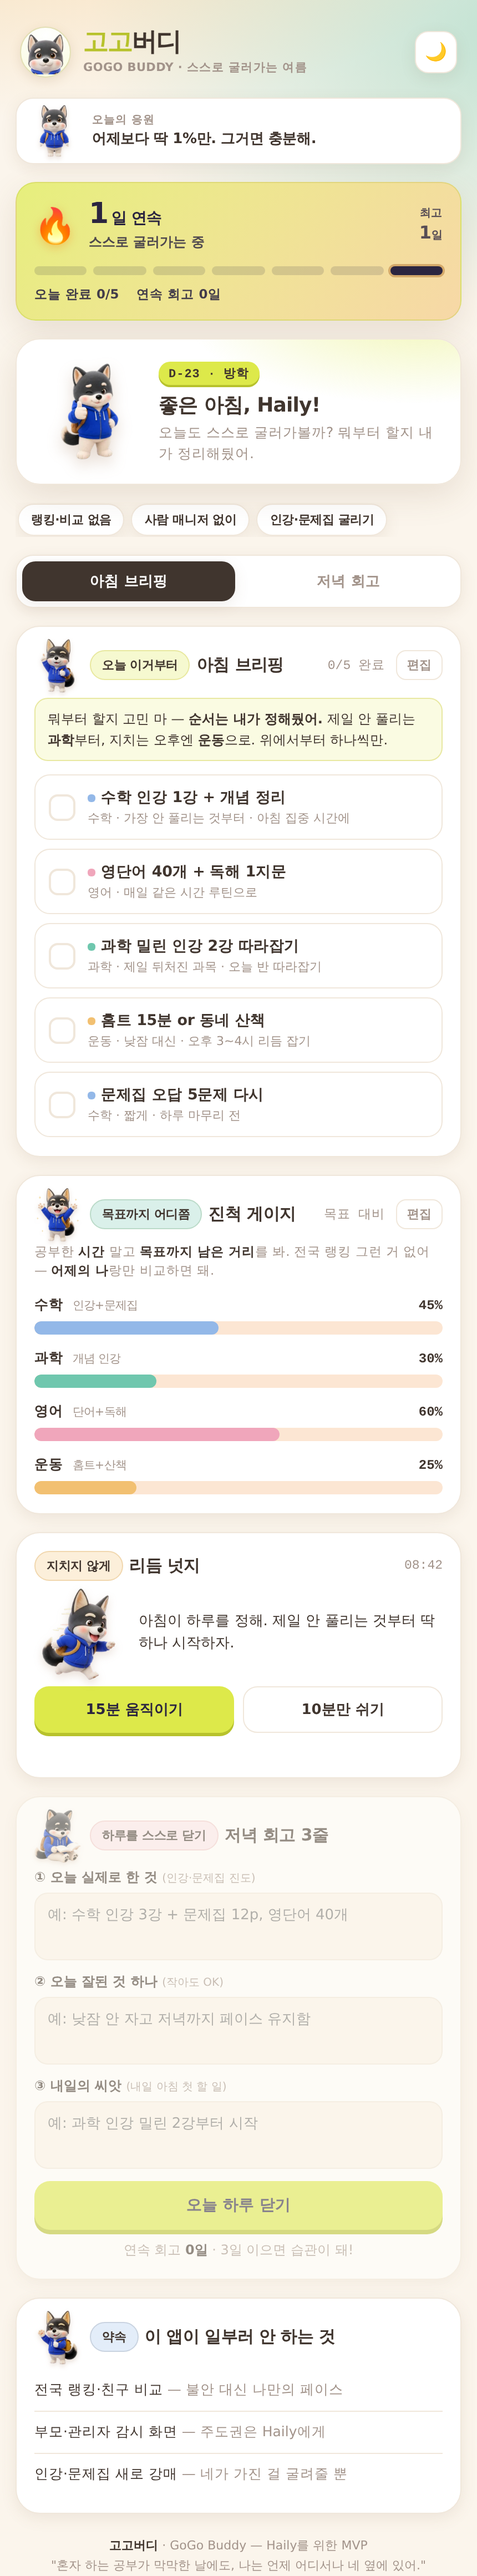
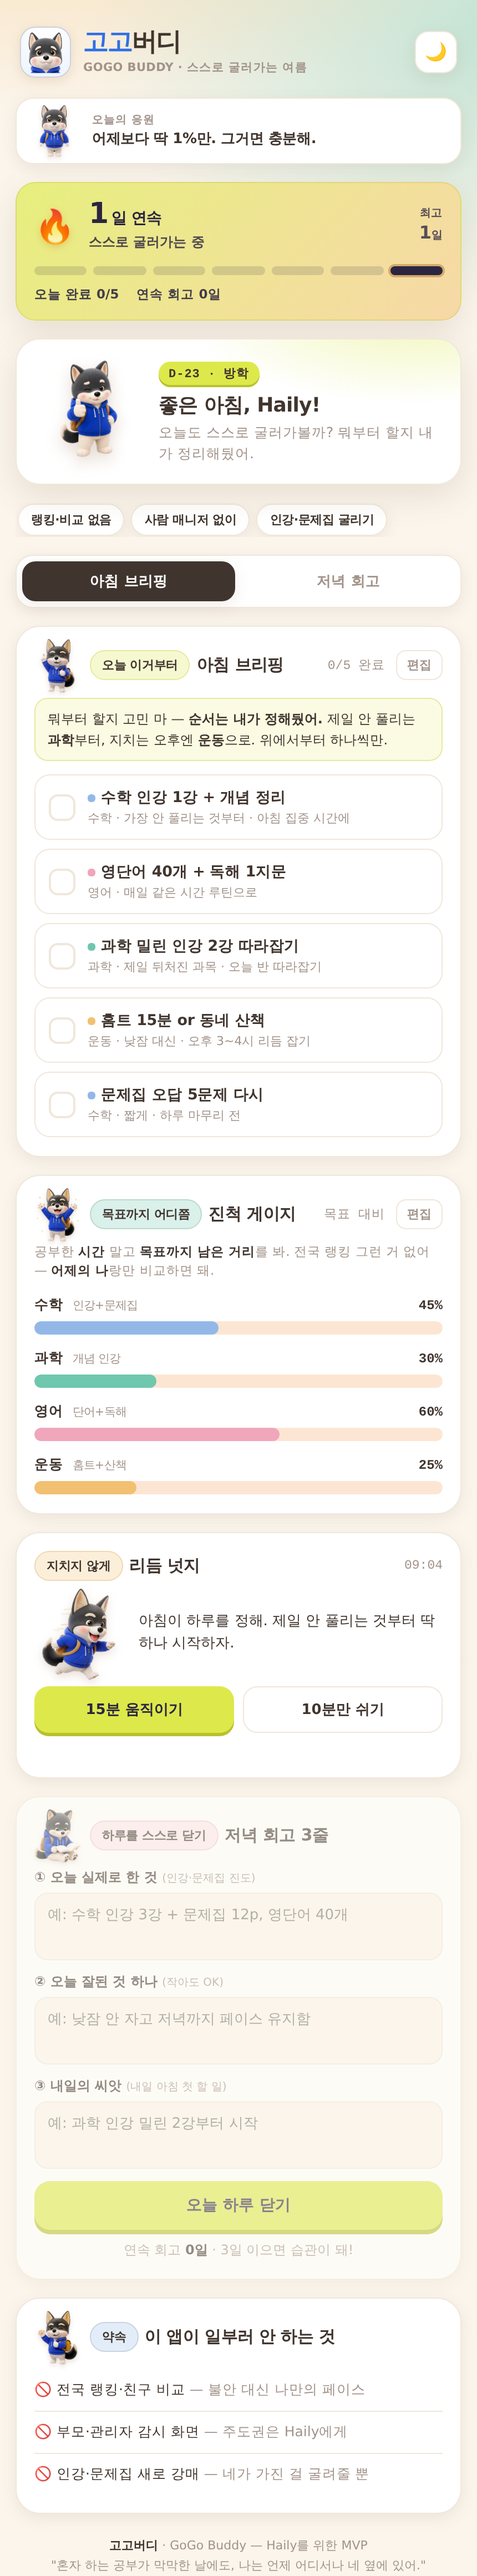
HooChoo 로고 마크 적용 및 마감 정리
- 정면 얼굴 전용 로고를 배경 제거·최적화해 헤더(스퀘어클 컨테이너)와 파비콘에 적용
- '이 앱이 일부러 안 하는 것' 목록의 금지 표시 복구
- submission.md 마스코트·브랜드 설명 갱신, 실행 스크린샷 재촬영

Claude-Session: https://claude.ai/code/session_01Aq5fCgQTr2L5UhckyziSbp

diff --git a/1_mission/6조/웃는돌(장경아)/4주차 과제 제출 폴더/haily-vacation-buddy.html b/1_mission/6조/웃는돌(장경아)/4주차 과제 제출 폴더/haily-vacation-buddy.html
@@ -1,4 +1,5 @@
 <title>고고버디 · GoGo Buddy</title>
[1 lines of base64/hex data omitted]
 <meta name="viewport" content="width=device-width, initial-scale=1" />
 <style>
   :root {
@@ -89,13 +90,13 @@
   }
   .brand { display: flex; align-items: center; gap: 11px; }
   .brand .logo {
-    width: 46px; height: 46px; border-radius: 50%; overflow: hidden; flex: 0 0 auto;
-    background: radial-gradient(120% 120% at 50% 15%, var(--card), color-mix(in srgb, var(--lime) 22%, var(--card)));
-    border: 1px solid color-mix(in srgb, var(--lime-deep) 22%, var(--line));
+    width: 46px; height: 46px; border-radius: 30%; overflow: hidden; flex: 0 0 auto;
+    background: radial-gradient(120% 120% at 50% 12%, var(--card), color-mix(in srgb, var(--brand) 10%, var(--card)));
+    border: 1px solid color-mix(in srgb, var(--brand) 18%, var(--line));
     box-shadow: 0 3px 10px rgba(150, 110, 60, .16);
     display: grid; place-items: center;
   }
-  .brand .logo img { width: 88%; height: 88%; object-fit: contain; display: block; margin-top: 2px; }
+  .brand .logo img { width: 92%; height: 92%; object-fit: contain; display: block; margin-top: 1px; }
   .brand b {
     font-size: 23px; font-weight: 900; letter-spacing: -1px; line-height: 1.1;
     display: block; color: var(--ink);
@@ -562,9 +563,9 @@
       <h2>이 앱이 일부러 안 하는 것</h2>
     </div>
     <ul>
-      <li>전국 랭킹·친구 비교 <b>— 불안 대신 나만의 페이스</b></li>
-      <li>부모·관리자 감시 화면 <b>— 주도권은 Haily에게</b></li>
-      <li>인강·문제집 새로 강매 <b>— 네가 가진 걸 굴려줄 뿐</b></li>
+      <li>🚫 전국 랭킹·친구 비교 <b>— 불안 대신 나만의 페이스</b></li>
+      <li>🚫 부모·관리자 감시 화면 <b>— 주도권은 Haily에게</b></li>
+      <li>🚫 인강·문제집 새로 강매 <b>— 네가 가진 걸 굴려줄 뿐</b></li>
     </ul>
   </div>
 
@@ -605,6 +606,7 @@
   /* ---------- Mascot: real photo-based buddy (embedded images) ---------- */
   var cvs = document.getElementById("mascot");
   var heroExpr = "wave";
[1 lines of base64/hex data omitted]
   var BUDDY_FULL = {
[2 lines of base64/hex data omitted]
@@ -638,7 +640,7 @@
     for (var i = 0; i< ms.length; i++) { setBuddy(ms[i], ms[i].getAttribute("data-expr") || "happy", false); }
   }
   drawMascot(); drawAllMinis();
-  setBuddy(document.getElementById("logoImg"), "happy", true);
+  document.getElementById("logoImg").src = HOOCHOO_LOGO;
   setBuddy(document.getElementById("nudgeBuddy"), "run", false);
   cvs.addEventListener("click", function () {
     cvs.classList.remove("bounce"); void cvs.offsetWidth; cvs.classList.add("bounce");

diff --git a/1_mission/6조/웃는돌(장경아)/4주차 과제 제출 폴더/submission.md b/1_mission/6조/웃는돌(장경아)/4주차 과제 제출 폴더/submission.md
@@ -23,7 +23,8 @@ date: 2026-07-22
 - **구현한 것 (링크·스크린샷 — 이미지는 `이미지첨부/` 폴더에):**
   - 프로토타입: `haily-vacation-buddy.html` (이 폴더 안, 자체 완결형 웹앱 — 앱명 **고고버디**)
   - 4대 핵심 기능(아침 브리핑 / 진척 게이지 / 리듬 넛지 / 저녁 회고 3줄)을 담은 챗·카드 인터페이스
-  - **마스코트**: 실제 반려견(허스키) 사진을 레퍼런스로 생성형 이미지 AI(STIC 프롬프트)로 제작한 오리지널 캐릭터. 6가지 포즈(인사·가리키기·만세·달리기·졸림·기본)가 메뉴마다 등장하고, 시간대·완료 여부에 따라 자동 전환
+  - **마스코트 'HooChoo'**: 실제 반려견(허스키) 사진을 레퍼런스로 생성형 이미지 AI(STIC 프롬프트)로 제작한 오리지널 캐릭터. **9가지 포즈**(인사·가리키기·만세·달리기·졸림·기본·기지개·공부·엄지척)를 메뉴별로 배치해 화면에 같은 포즈가 중복되지 않게 했고, 시간대·완료 여부에 따라 자동 전환
+  - **브랜드**: 캐릭터 후드티 색을 브랜드 컬러(#2E6FE6)로 삼아 워드마크·로고를 정리하고, 정면 얼굴 전용 로고 마크를 별도 제작해 헤더·파비콘에 적용
   - **편집 기능**: 아침 브리핑 할 일 추가·수정·삭제, 진척 게이지 과목·도구·색상·진척률(슬라이더) 직접 편집, 브라우저에 저장(새로고침 유지) → Haily가 자기 계획을 직접 넣는 자기주도 흐름
   - **살아있는 화면**: 마스코트가 둥실둥실 움직이고 눈을 깜빡이는 애니메이션 / 최상단 **습관 스트릭 카드뉴스**(연속 사용일·7일 점 스트립·최고기록) / 접속마다 바뀌는 **응원 글귀 배너**
   - **리듬 넛지 타이머·알람**: 15분 움직이기 / 10분 쉬기 카운트다운이 실제로 돌아가고, 시간이 되면 마스코트가 등장하는 화면 알람 + 소리(Web Audio 차임) + 진동으로 깨워줌 (새로고침해도 이어짐)
